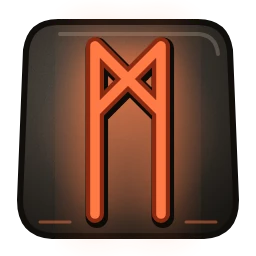
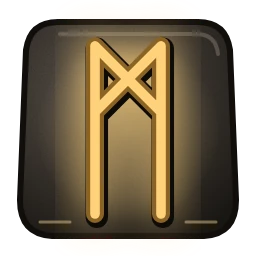
Руна Манназ — універсальна (зброя, броня, прикраси); sw v149
Claude-Session: https://claude.ai/code/session_01GgZrxh4V7kCcvbZsNtpgGz

Changed region(s): [[0.25, 0.125, 0.75, 0.875], [0.7188, 0.8438, 0.8438, 0.875], [0.1562, 0.8438, 0.2812, 0.875]]

diff --git a/assets/js/data/runes.js b/assets/js/data/runes.js
@@ -27,8 +27,6 @@
                 effect: "Сила", stat: "str", vals: ["+3", "+5", "+7", "+9"] },
     hagalaz:  { name: "Хагалаз",  kind: "weapon", pantheon: "norse", glyph: "ᚺ", meaning: "Град, що трощить усе",
                 effect: "Пробиття захисту ворога", stat: "armorPenPct", vals: ["6%", "9%", "13%", "18%"] },
-    mannaz:   { name: "Манназ",   kind: "weapon", pantheon: "norse", glyph: "ᛗ", meaning: "Людина та її вміння",
-                effect: "Сила навичок: удари, заклинання й лікування", stat: "skillPct", vals: ["+6%", "+9%", "+13%", "+18%"] },
     // ---------- Руни зброї: слов'янські (дар Ірію) ----------
     perun:      { name: "Перун",     kind: "weapon", pantheon: "slavic", path: "M24 4 V60 M24 4 L36 18 L18 30 L32 42", meaning: "Блискавка Громовержця",
                   effect: "Атака зброї / Швидкість", stat: "weaponAtkPct+speed", vals: ["+5%/+2", "+8%/+3", "+11%/+4", "+15%/+6"] },
@@ -75,6 +73,8 @@
                  effect: "Більше золота з боїв", stat: "goldPct", vals: ["+5%", "+8%", "+11%", "+15%"] },
     wunjo:     { name: "Вуньо",     kind: "universal", pantheon: "norse", glyph: "ᚹ", meaning: "Радість перемоги",
                  effect: "Більше досвіду за бої", stat: "expPct", vals: ["+4%", "+6%", "+9%", "+12%"] },
+    mannaz:    { name: "Манназ",    kind: "universal", pantheon: "norse", glyph: "ᛗ", meaning: "Людина та її вміння",
+                 effect: "Сила навичок: удари, заклинання й лікування", stat: "skillPct", vals: ["+6%", "+9%", "+13%", "+18%"] },
     rid:       { name: "Рід",       kind: "universal", pantheon: "slavic", path: "M12 60 V4 H34 Q40 4 40 16 Q40 30 30 30 H12 M26 30 L40 60", meaning: "Сила предків, що стоїть за спиною",
                  effect: "Усі атрибути", stat: "allAttr", vals: ["+1", "+2", "+3", "+4"] },
     dazhbog:   { name: "Даждьбог",  kind: "universal", pantheon: "slavic", path: "M10 4 V60 M38 4 V60 M10 20 L38 44", meaning: "Сонце, що дарує",

diff --git a/sw.js b/sw.js
@@ -2,7 +2,7 @@
 // HTML / JS / CSS: спершу мережа (щоб оновлення гри підтягувались одразу),
 // а без інтернету — з кешу. Картинки: спершу кеш.
 // Після великих змін можна збільшити номер версії — старий кеш видалиться.
-const CACHE = "rpg-game-v148";
+const CACHE = "rpg-game-v149";
 const PRECACHE = [
   "./",
   "./assets/css/game.css",

diff --git a/assets/js/README_DATA.md b/assets/js/README_DATA.md
@@ -494,7 +494,7 @@ await RPG.saveGame(save);
 
 ## Руни як предмети (`data/runes.js`)
 
-- 29 рун з другої книги Сварога: 13 рун зброї, 12 рун броні, 4 універсальні (Футарк і слов'янські знаки).
+- 29 рун з другої книги Сварога: 12 рун зброї, 12 рун броні, 5 універсальних (Футарк і слов'янські знаки).
 - Кожна — 5 стопок за рідкістю: `rune_<key>` (звичайна), `rune_<key>_broken / _magic / _epic / _legendary`; `type: "rune"`, рамки рідкості як у матеріалів.
 - Опис кожної руни — ефект і значення з книги для своєї рідкості; зламана не дає нічого. Поле `stat` — ключ ефекту на майбутнє.
 - Іконки: знак з книги на камені — `assets/images/items/icon_rune_<знак>.webp` (256×256, одна на всі рідкості; колір — вид руни:
@@ -513,7 +513,7 @@ await RPG.saveGame(save);
   - Характеристики (`calcStats`, підказки «i» — рядок «Руни в гніздах»): Тейваз/Перун — % атаки (+швидкість), Альгіз — % захисту,
     Ансуз — % маг. захисту + Інтелект, Ейваз — % HP, Беркана/Джерело — % відновлення HP/MP, Совіло — крит, Мир — ухилення,
     Вітер — швидкість, Отала/Берегиня — блок фіз./маг., Уруз/Алатир/Рід — атрибути (`stats.js → totalAttrs`),
-    Манназ — сила навичок +6…18% (`skillPct`: фізичні й магічні навички та лікування).
+    Манназ (універсальна) — сила навичок +6…18% (`skillPct`: фізичні й магічні навички та лікування).
   - Бій (`battle.js`): Турісаз — оглушення на 1 хід, Кеназ — підпал (X% атаки за хід, 3 ходи), Хагалаз — пробиття захисту (≤60%),
     Крада — додаткова вогняна шкода від атаки, Сила — шкода по чемпіонах і босах, Треба — вампіризм, Чорнобог — прокляття (−10% захисту на 3 ходи),
     Іса — заморожування нападника, Чур — шипи, Велес — менше шкоди від нежиті (≤60%).
